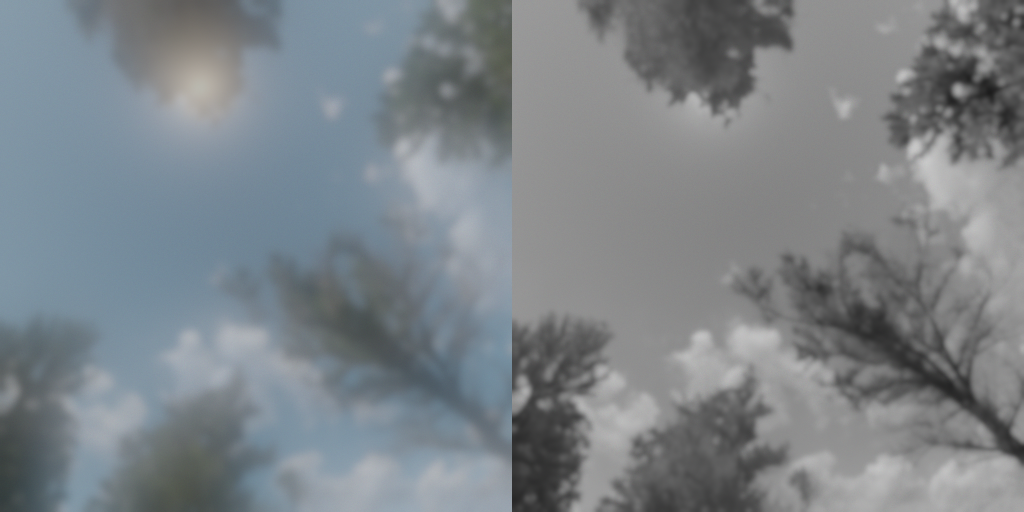
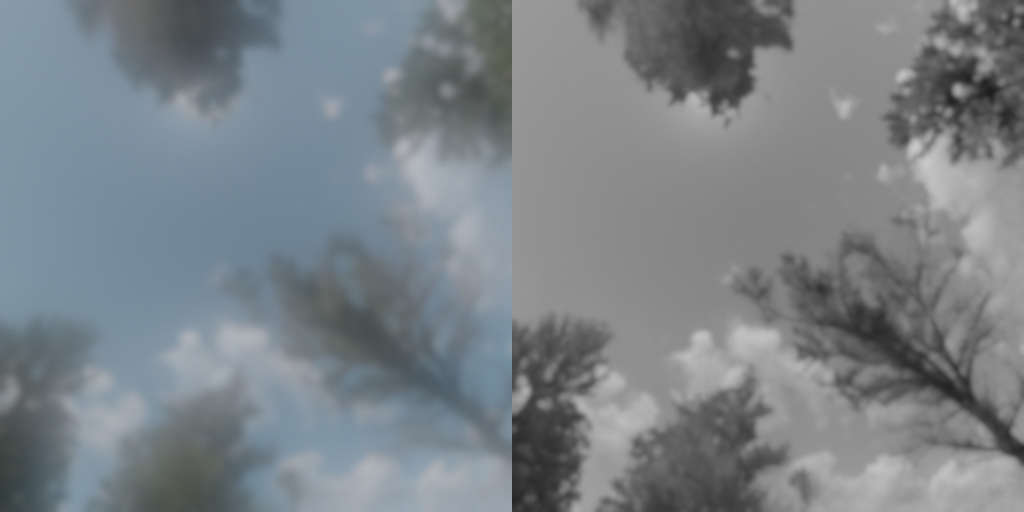
Lab: climb overexpose round 2
Claude-Session: https://claude.ai/code/session_01RqENhngNCzDFmJWDZueXGV

Changed region(s): [[0.125, 0.0, 0.25, 0.25]]

diff --git a/tools/depth/bakes/overexpose/sunburst.py b/tools/depth/bakes/overexpose/sunburst.py
@@ -10,11 +10,15 @@
 # Here, on the shipped bake, the sun is lit again about 2-3 stops brighter than
 # resun.py left it, on three things only, with the photograph's own texture riding
 # along as a ratio:
+#   0. the anchor crown's needle mass deepened (DEEP) around the sun, so it is the
+#      darkest silhouette in the frame;
 #   1. the tight circumsolar radiance, on each pixel's open-sky share: a near-white
 #      cyan aureole (the sky's own colour halfway to white) that falls off over a
-#      few degrees, AUR_A x the local sky at the sun and AUR_B x over ~AUR_W2 deg.
-#      Through the crown's own gaps within a couple of degrees of the sun it reaches
-#      the sun's disc: pin-points at the top of the encoding;
+#      few degrees, AUR_A x the local sky at the sun and AUR_B x over ~AUR_W2 deg;
+#   1b. a few sparkles of the disc in the crown's real pin-hole gaps near the sun:
+#      sharp points (one hot pixel with a faint, short glint on the needles
+#      around it), several stops above the sky, never blurred. A soft disc term on the sky share around the sun found no
+#      gap within its half degree and only fed the veil;
 #   2. a thin (RIM_PX) warm-white transmitted rim on the needles at the crown's
 #      open-sky edge, in the sun's forward lobe: backlit needles out-shine the sky
 #      beyond them by several stops. Mixed edge pixels (single needles against the
@@ -23,7 +27,9 @@
 #   3. the optics: diffusion and halation are rebaked from the change itself (both
 #      are linear in radiance), so the Pro-Mist bloom around the crown is cyan-white
 #      from the aureole and the halation ring on the dark needles inside the rim is
-#      warm.
+#      warm. The disc's own scattered light (sun_optics) is added as a tight
+#      cyan-white veil weighted by the sky share, so the crown stays a dark
+#      silhouette and the veil crosses it only as the exposure climbs.
 # The glow is also keyed into scene.webp's alpha (as cloud is, relight.py), with a
 # smooth falloff around the sun, so the printer's sky hold leaves it alone: as the
 # exposure rises the held sky stays cobalt while the glow climbs the shoulder,
@@ -44,12 +50,21 @@ LN = 0.035                       # the needles' own luminance (resun.py)
 AUR_A, AUR_W1 = 7.0, 1.6         # tight aureole: x local sky at the sun, e-fold in deg
 AUR_B, AUR_W2 = 2.2, 7.0         # its broader skirt
 AUR_WHITE = 0.55                 # share of the way from the sky's colour to white
-DISC_DEG, DISC_L = 0.45, 5.0      # gaps this close to the sun see its disc (luminance, near the encoding's top)
+SPARK_DEG, SPARK_N = 4.0, 6      # the disc sparkles in the crown's gaps this close to the sun, at most this many
+SPARK_PX = 12                    # pin-holes only: a bigger gap already prints as a pale patch of aureole, and a point in it is lost
+SPARK_L, SPARK_W = 5.5, 9.0      # sparkle luminance at the sun (the encoding's top is 5.66), its e-fold in deg
+SPARK_GAP = 8                    # px between sparkles, so a ragged gap reads as one point, not a cluster
+SPARK_COL = np.array([1.06, 1.0, 0.94])  # the disc through needles: white, a breath warm
+SPARK_KERN = [(0, 0, 1.0)] + [(dr, dc, 0.07) for dr in (-1, 1) for dc in (-1, 1)] \
+    + [(d * dr, d * dc, f) for d, f in ((1, 0.3), (2, 0.1), (3, 0.035)) for dr, dc in ((-1, 0), (1, 0), (0, -1), (0, 1))]
 RIM_K, RIM_W, RIM_PX = 40.0, 3.5, 1.5   # rim: x local sky at the lobe's peak; lobe e-fold in deg; depth in px
 RIM_COL = np.array([1.3, 1.0, 0.62])     # sunlight through needles: warm white
-SRC_D2, SRC_W = 0.5, 4.5        # diffusion only: the disc's own light, as luminance 2 deg out, and its falloff (deg)
-SRC_COL = np.array([1.3, 1.0, 0.68])     # warm white: sunlight that came through the needles
+SRC_D2, SRC_W = 0.125, 2.2      # diffusion only: the disc's own light, as luminance 2 deg out, and its falloff (deg)
+SRC_WHITE = 0.7                  # veil colour: the sky's own, this far to white (cyan-white)
+SRC_NEEDLE = 0.15                # share of the veil the needle mass keeps (it shows only as the exposure climbs)
 KEY_A, KEY_DEG = 0.85, 9.0       # alpha key: share of the sky hold the glow is spared, and its falloff (deg)
+KEY_NEEDLE = 0.2                 # share of that the needle mass gets: the crown is held nearly as the other pines
+DEEP, DEEP_DEG = 0.65, (7.0, 18.0)  # the backlit crown's needle mass, x this radiance within the first, eased out by the second (deg)
 
 def smooth(a, lo, hi):
     t = np.clip((a - lo) / (hi - lo), 0, 1)
@@ -79,9 +94,32 @@ def sunburst(pix):
     acol = scol + AUR_WHITE * (1 - scol)
     acol /= (acol @ LUMA)[..., None]
     aur = SY * (AUR_A * np.exp(-g / AUR_W1) + AUR_B * np.exp(-g / AUR_W2))
-    disc = DISC_L * smooth(-g, -DISC_DEG * 1.6, -DISC_DEG * 0.5)
     ts = smooth(t, 0.2, 0.75)                                          # needles stay dark: only real gaps see it
-    add_a = (ts * (aur + disc))[..., None] * acol
+    add_a = (ts * aur)[..., None] * acol
+    # 1b. the disc's sparkles: the most open pixel of each real gap in the crown
+    #     (not the open sky, nor its ragged edge) near the sun, nearest first
+    gap = (t > 0.35) & ~ndi.binary_dilation(open_sky, iterations=2) & (g < SPARK_DEG)
+    gl, gn = ndi.label(gap)
+    spark = np.zeros_like(t)
+    if gn:
+        idx = np.arange(1, gn + 1)
+        peak = ndi.maximum_position(t + 1e-3 * (SPARK_DEG - g), gl, idx)   # most open; ties go sunward
+        tpk = np.array([t[p] for p in peak])
+        gsz = ndi.sum(np.ones_like(t), gl, idx)
+        ok = np.flatnonzero((tpk > 0.5) & (gsz <= SPARK_PX))
+        ok = ok[np.argsort([g[peak[k]] for k in ok])]
+        placed = []
+        for k in ok:
+            r, c = peak[k]
+            if len(placed) == SPARK_N or any(abs(r - r2) + abs(c - c2) < SPARK_GAP for r2, c2 in placed):
+                continue
+            placed.append((r, c))
+            v = SPARK_L * np.exp(-g[r, c] / SPARK_W) * (0.5 + 0.5 * t[r, c])   # the more open the hole, the more disc
+            spark[r, c] = max(spark[r, c], v)
+            for dr, dc, f in SPARK_KERN:                                # the glint, sharp: no blur
+                spark[r + dr, c + dc] = max(spark[r + dr, c + dc], f * v)
+            print('sparkle at (%d,%d), %.2f deg, t %.2f, lum %.2f (x%.0f the sky)' % (r, c, g[r, c], t[r, c], v, v / SY[r, c]))
+    add_a = add_a + spark[..., None] * (SPARK_COL / (SPARK_COL @ LUMA))
     # 2. rim on needles at the open sky's edge, in the forward lobe
     rr = int(np.ceil(RIM_PX)); yy, xx = np.mgrid[-rr:rr + 1, -rr:rr + 1]
     fp = (xx * xx + yy * yy) <= RIM_PX ** 2 + 0.5
@@ -97,8 +135,15 @@ def sunburst(pix):
     # the lobe can no longer lift it a stop or more over that sky, it fades out
     lobe = lobe * smooth(RIM_K * lobe, 2.0, 5.0)
     rim = (RIM_K * edge * needle * thin * lobe * SY * near_sun)[..., None] * (RIM_COL / (RIM_COL @ LUMA))
-    out = pix + add_a + rim
-    key = KEY_A * np.exp(-g / KEY_DEG) * near_sun
+    # 0. the anchor crown, backlit, sits a little under the other pines: its needle
+    #    mass (not its gaps, rim or sky) is deepened around the sun, so at 1.67 EV
+    #    it prints near-black instead of the same mid green-grey as everything else
+    deep = 1 - (1 - DEEP) * smooth(-g, -DEEP_DEG[1], -DEEP_DEG[0]) * (1 - ts)
+    out = pix * deep[..., None] + add_a + rim
+    # spared on the sky share; the needles only KEY_NEEDLE of it, so the glow,
+    # not the crown, carries the overexposure, and the crown lifts only late
+    ksky = np.clip(ndi.gaussian_filter(t, 1.5), 0, 1)
+    key = KEY_A * np.exp(-g / KEY_DEG) * near_sun * (KEY_NEEDLE + (1 - KEY_NEEDLE) * ksky)
     for gg in (0.5, 1, 2, 4, 8, 16):
         ring = (np.abs(g - gg) < 0.3) & open_sky
         if ring.any():
@@ -108,24 +153,35 @@ def sunburst(pix):
     print('rim px %d, rim lum p50/p99 %.2f / %.2f, rim/sky p50 %.1f' % (int(sel.sum()), np.percentile(rl[sel], 50),
           np.percentile(rl[sel], 99), np.percentile(rl[sel] / SY[sel], 50)))
     print('max lum %.2f, px at the encoding top %d' % ((out @ LUMA).max(), int((out > 2 ** bw.HI).any(-1).sum())))
-    return out, key
+    # for sun_optics: the sky share, and the sky's colour around the sun taken towards white
+    ring = open_sky & (g > 2) & (g < 6)
+    vcol = S[ring].mean(0) / (S[ring].mean(0) @ LUMA)
+    vcol = vcol + SRC_WHITE * (1 - vcol)
+    return out, key, (t, vcol / (vcol @ LUMA))
 
-def sun_optics():
-    """The disc itself, for the diffusion only. Its pin-points through the crown
-    are thousands of times the sky, and the encoding holds them at its top, but
-    the filter sees all of that light. Most of it scatters wide (the Pro-Mist's
-    broad lobe; the narrow lobe and the halation would draw the hidden disc as a
-    pasted-on ball), so it is added to the diffusion half of the optics as a
-    smooth warm-white veil around the hidden sun, SRC_D2 two degrees out and
-    falling off over SRC_W deg. On the print it lifts the dark needles at the
-    crown's edge by under a stop at 0 EV; as the exposure rises it climbs out
-    of the toe with them and swallows the edge."""
+def sun_optics(t, vcol):
+    """The disc itself, for the diffusion only. The filter sees all of its light,
+    which the encoding cannot hold, and most of it scatters wide (the narrow
+    lobe and the halation would draw the hidden disc as a pasted-on ball). It is
+    added to the diffusion half of the optics as a tight cyan-white veil around
+    the hidden sun, SRC_D2 two degrees out and falling off over SRC_W deg,
+    weighted by the sky share (block-averaged, then softened by a couple of px):
+    the open sky around the crown takes it, the needle mass only SRC_NEEDLE of it.
+    The broad warm veil this replaces (4x as strong, 4.5 deg falloff, on the
+    needles too) washed the crown's middle to khaki at every exposure; now the
+    crown prints as dark as the other pines at 0 EV and the veil reaches across
+    it only as the exposure climbs and lifts those needles out of the toe."""
     _, g = deepen.geometry()
     n = 512
-    gs = g.reshape(n, g.shape[0] // n, n, g.shape[1] // n).mean((1, 3))
-    veil = SRC_D2 * np.exp(-(gs - 2.0) / SRC_W)[..., None] * (SRC_COL / (SRC_COL @ LUMA))
-    veil = bw.gblur(np.minimum(veil, SRC_D2 * np.exp(1.0 / SRC_W)), 4.0)   # rounded off at the centre
-    print('disc veil: diffusion at 0/2/4/8/16 deg', [round(float((veil @ LUMA)[np.abs(gs - d) < 0.4].mean()), 3) for d in (0.3, 2, 4, 8, 16)])
+    k = g.shape[0] // n
+    gs = g.reshape(n, k, n, k).mean((1, 3))
+    sky = bw.gblur(t.reshape(n, k, n, k).mean((1, 3)), 1.0)
+    w = SRC_NEEDLE + (1 - SRC_NEEDLE) * np.clip(sky, 0, 1)
+    f = SRC_D2 * np.exp(-(np.maximum(gs, 1.0) - 2.0) / SRC_W)            # rounded off inside 1 deg
+    veil = (bw.gblur(f, 2.0) * w)[..., None] * vcol
+    vl = veil @ LUMA
+    print('disc veil: diffusion at 0/2/4/8/16 deg', [round(float(vl[np.abs(gs - d) < 0.4].mean()), 3) for d in (0.3, 2, 4, 8, 16)],
+          'on needles (sky < 0.1) within 4 deg %.4f' % float(vl[(sky < 0.1) & (gs < 4)].mean()))
     return np.concatenate([veil, np.zeros_like(veil)], 1)
 
 if __name__ == '__main__':
@@ -133,14 +189,14 @@ if __name__ == '__main__':
     s8, a8 = s[..., :3], s[..., 3]
     g8 = np.asarray(Image.open(sys.argv[2]).convert('RGB'))
     pix = bw.dec_log(s8)
-    out, key = sunburst(pix)
+    out, key, (t, vcol) = sunburst(pix)
     m = 1 - (a8.astype(np.float64) - 3) / 252                    # relight.py's cloud share
     m = np.maximum(m, key)
     alpha = (3 + 4 * np.round(63 * (1 - np.clip(m, 0, 1)))).astype(np.uint8)
     rng = np.random.default_rng(13)
     changed = np.abs(np.log2(out / pix)).max(-1) > 1e-3
     s8n = np.where(changed[..., None], bw.enc_log(out, rng), s8).astype(np.uint8)
-    d_opt = bw.optics(out - pix) + sun_optics()
+    d_opt = bw.optics(out - pix) + sun_optics(t, vcol)
     glow = np.maximum(bw.dec_log(g8) + d_opt, 2.0 ** bw.LO)
     g8n = np.where((np.abs(d_opt) > 1e-5).any(-1, keepdims=True), bw.enc_log(glow, rng), g8).astype(np.uint8)
     if len(sys.argv) > 3:
